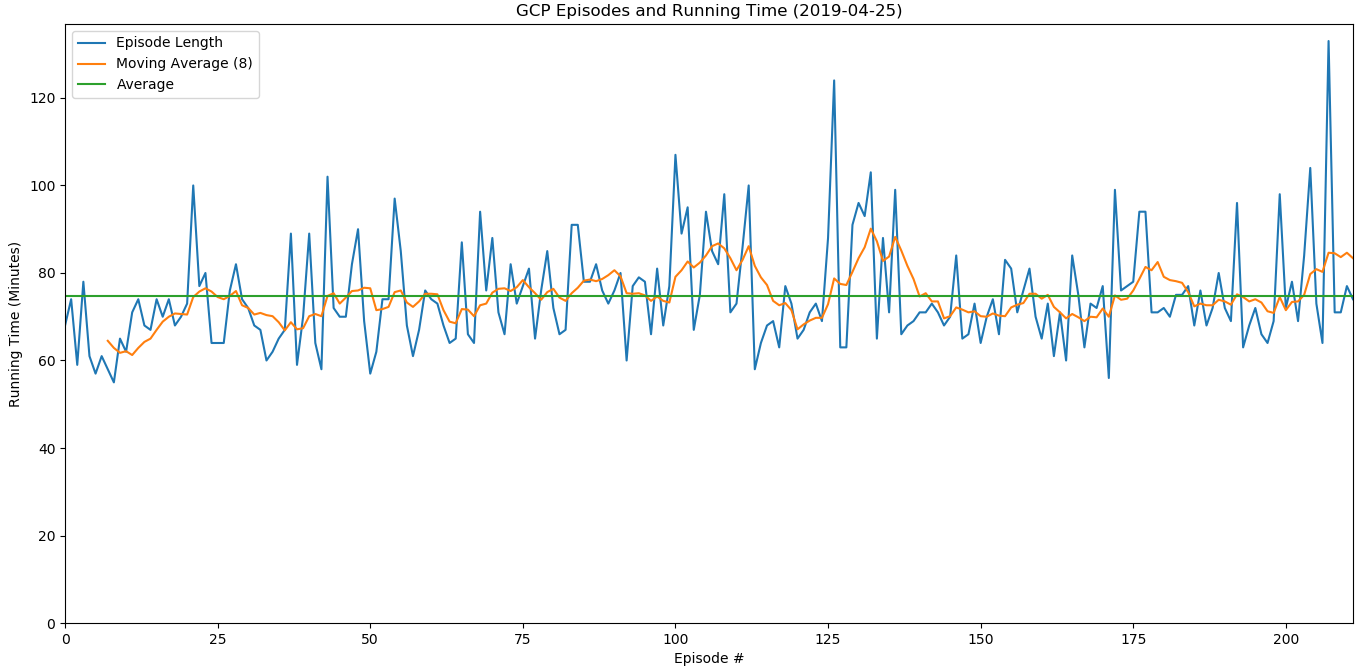
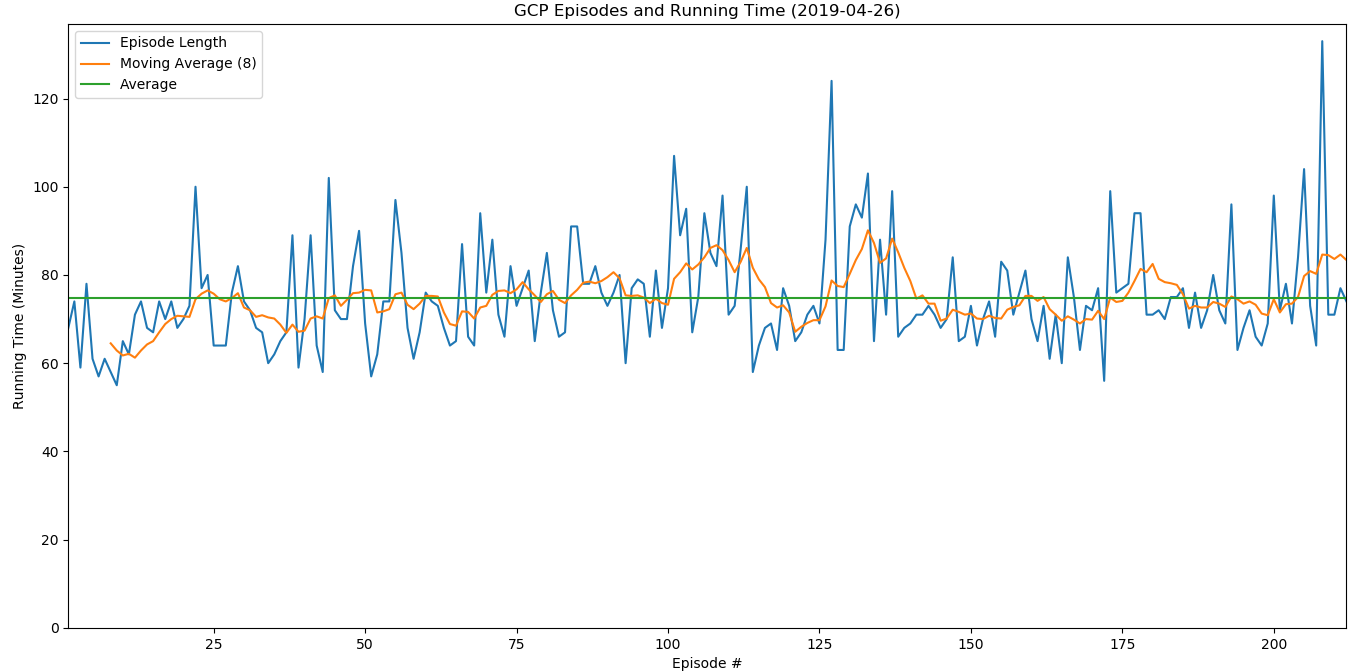
Comments, made x start at 1, fixed depreciated func

diff --git a/scraper.py b/scraper.py
@@ -5,12 +5,13 @@ import numpy as np
 import pandas as pd
 import matplotlib.pyplot as plt
 
+## Rss feed containing the podcast.
 feed = feedparser.parse("https://audioboom.com/channels/4072907.rss")
 
 outer_list = []
 
 for entry in feed['entries']:
-    if re.search("^.*Cannon", entry.title) is None:
+    if re.search("^.*Cannon", entry.title) is None: ## Get rid of cannon fodder
         outer_list.append((entry.title, entry.itunes_duration))
 
 times = []
@@ -19,16 +20,16 @@ for x in outer_list[::-1]: # Iterate backwards from oldest to most recent
     times.append(round(float(x[1]) / 60 ))
     names.append(x[0])
 
-print(times)
-
 data_set = list(zip(names, times))
 df = pd.DataFrame(data = data_set, columns=['Episode', 'Episode Length'])
+df.index = np.arange(1, len(df)+1) ## Make x start at 1
 df['Moving Average (8)'] = df['Episode Length'].rolling(8).mean()
 df['Average'] = df['Episode Length'].mean()
 
 lines = df.plot.line(title='GCP Episodes and Running Time (' + str(datetime.datetime.now().date()) + ')')
 lines.set_xlabel("Episode #")
 lines.set_ylabel("Running Time (Minutes)")
+lines.set_ylim(bottom=0) ## Make y axis start at 0
 
 
-plt.show()
+plt.show() ## Show plot!
